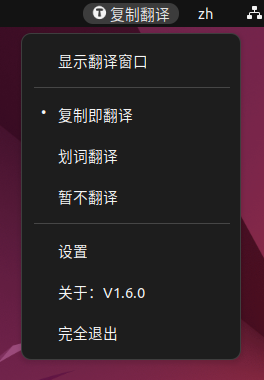
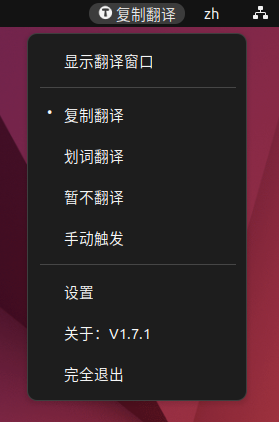
文档细节

diff --git a/md/feature.md b/md/feature.md
@@ -28,6 +28,29 @@
 |:-:|:-:|
 ![图片翻译](images/gtk2.png)|![图片翻译](images/qt2.png)
 
+## 快捷键翻译
+
+目前只是 `gtk` 版本做了简单的支持，使用方法
+
+- 先复制准备翻译的文本或图片0（比如ctl-c）
+- 然后 `Ctrl Alt M` 激发翻译
+
+如果你要修改快捷键，直接编辑配置文件，注意是 `json` 文件
+
+> 非常不建议修改这个文件，容易出问题！请 `提前备份` 这个文件，或者如果出问题，请删除这个文件，然后重新添加 `api` 密钥
+
+- 打开 `~/.config/ldr-translate/config.json` 文件，建议 [vscode](https://code.visualstudio.com/) 等支持 `json` 高亮的编辑器打开，如果安装了 [vscode](https://code.visualstudio.com/)，可以使用下面的命令
+
+    ```bash
+    code ~/.config/ldr-translate/config.json
+    ```
+
+- 以 vscode 打开为例，可以右键选择 `格式化`，方便编辑
+- 然后在 `setting` 中添加键值对 `,"key_gtk": "<Ctrl><Alt>M"`，其中 `<Ctrl><Alt>M`  是你准备的快捷键，修改后如图
+- `完全退出` 兰朵儿，重新打开
+    > 注意，如果没有生效，大概率是因为你的快捷键与系统中其他快捷键 `冲突`，或者 `config.json`文件编写错误，比如 `"key_gtk"` 前面要有个英文逗号 `,`
+
+    ![快捷键t](images/config-gtk-key.png)
 
 ## 图片翻译
 

diff --git a/md/build.md b/md/build.md
@@ -43,6 +43,6 @@
       - python3-gi
       - gnome-shell-extension-appindicator
       - gir1.2-appindicator3-0.1 或 gir1.2-ayatanaappindicator3-0.1
-      - libkeybinder3
+      - gir1.2-keybinder-3.0
 
 如果遇到问题，请查看 [已知问题](qa.md)

diff --git a/md/qa.md b/md/qa.md
@@ -15,6 +15,7 @@
 
 - `gnome-shell-extension-appindicator`
 - `gir1.2-appindicator3-0.1` 或 `gir1.2-ayatanaappindicator3-0.1`
+- `gir1.2-keybinder-3.0`
 - `python3-gi`
 
 
